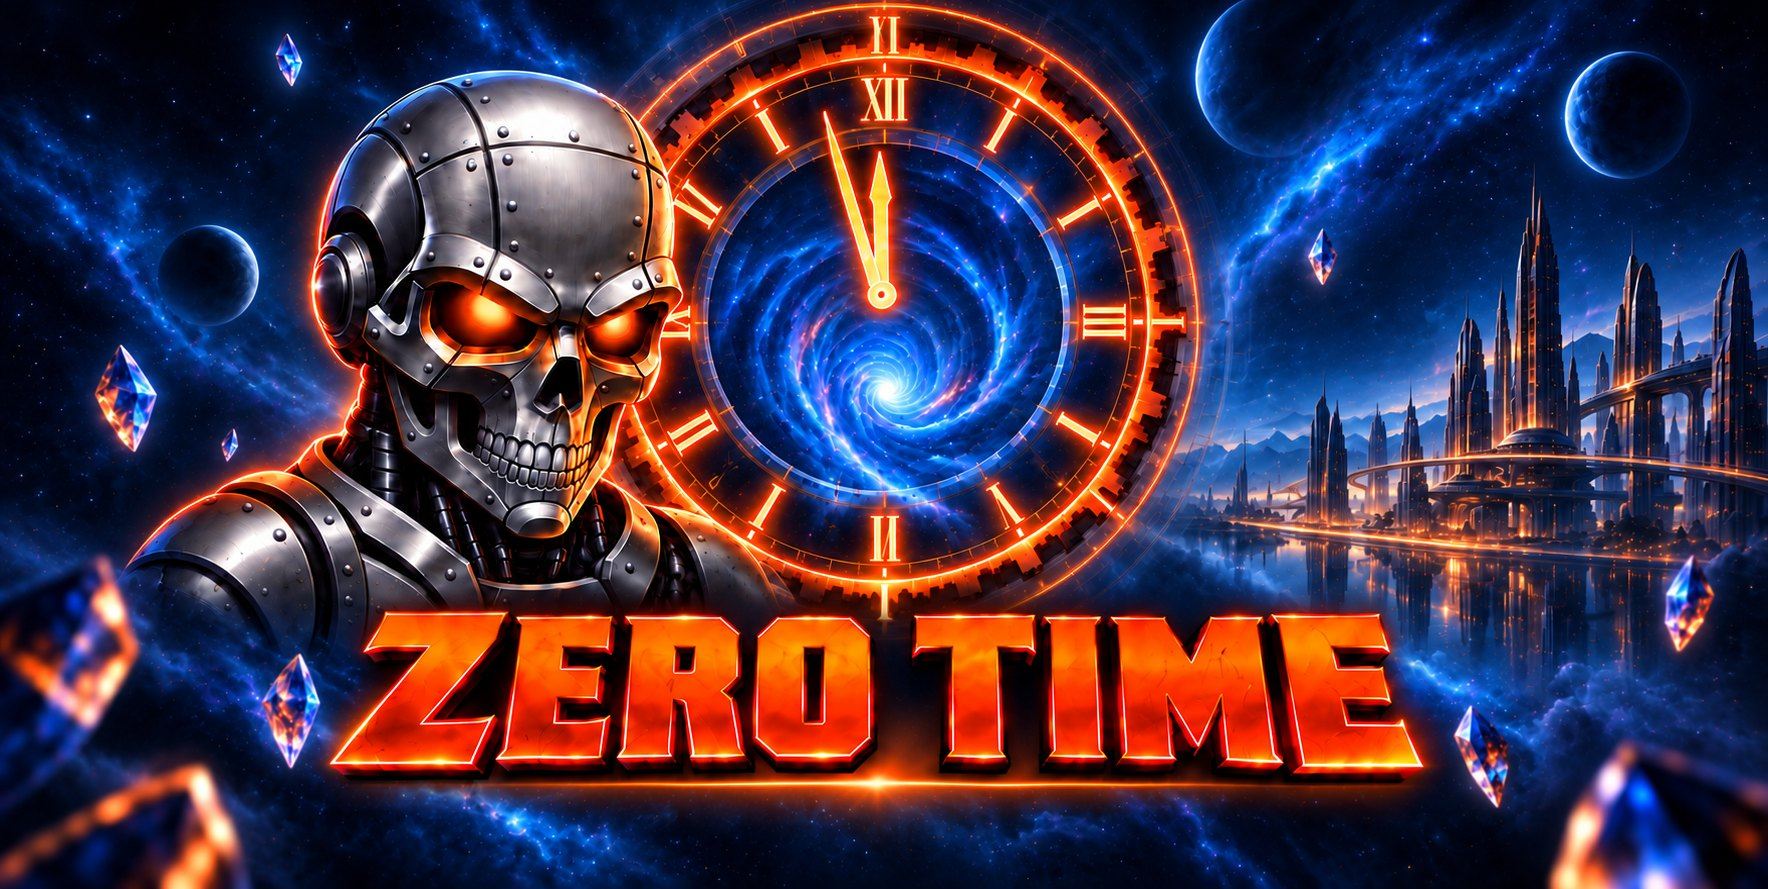
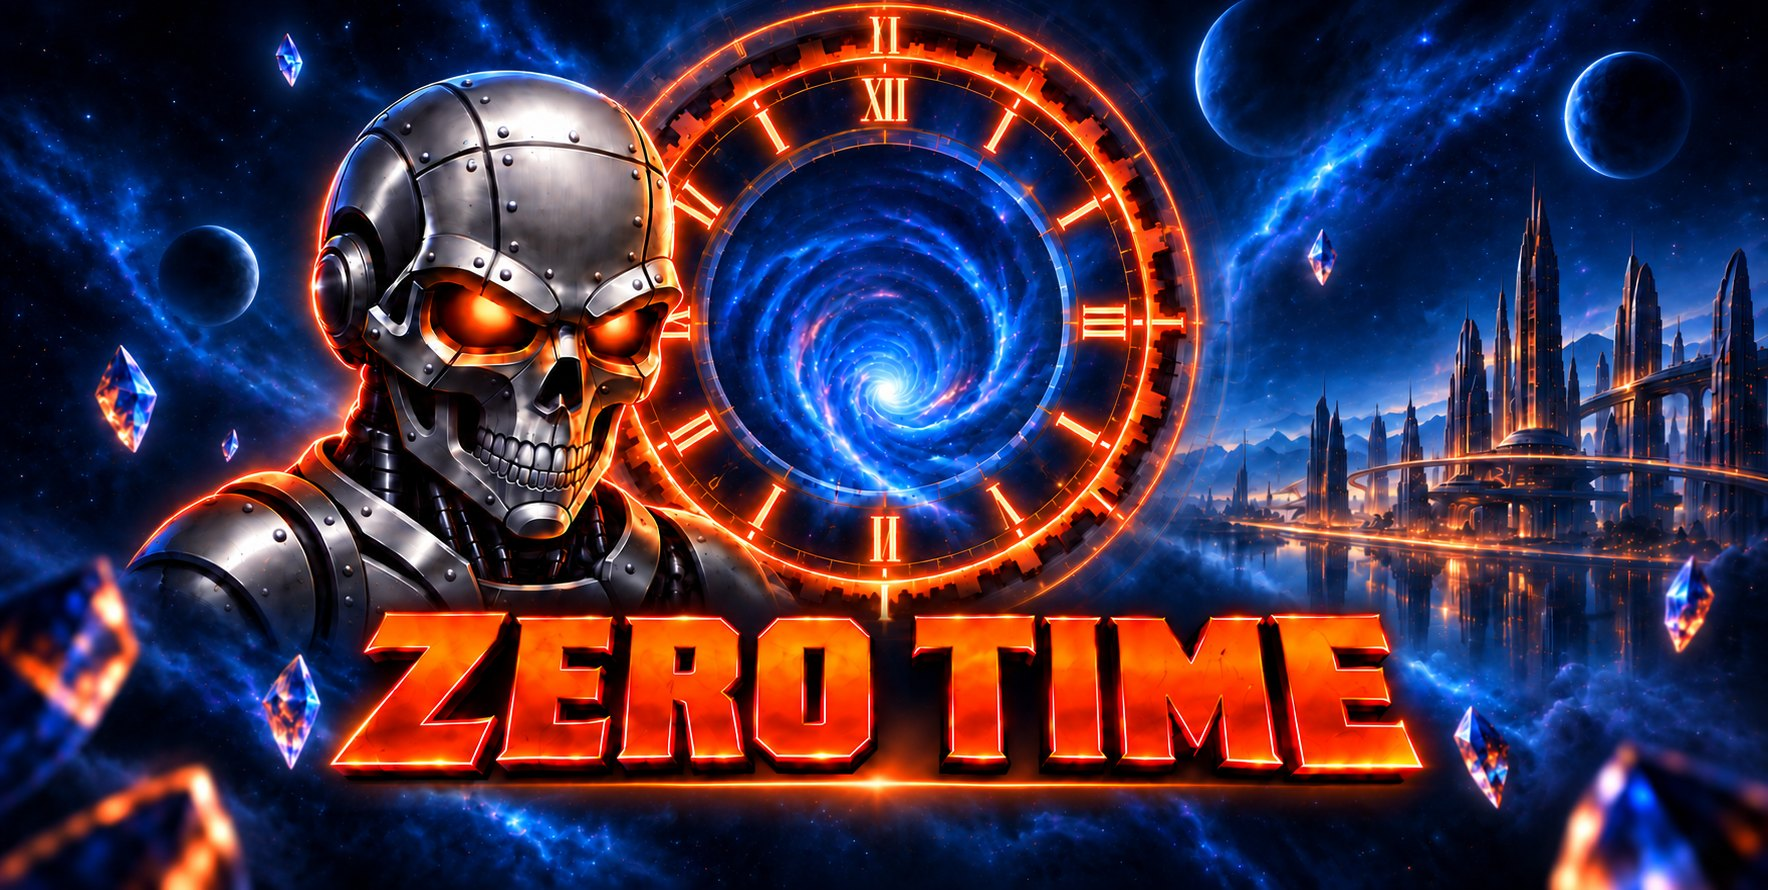
0.78: Uhr im Hinterglas mit beweglichen Zeigern, ZERO TIME bei 12 Uhr
Claude-Session: https://claude.ai/code/session_01YVTijdg2NrzQSAymz9VLAz

diff --git a/drei.js b/drei.js
@@ -444,6 +444,7 @@ const kopfBildTex = (() => {                  // Platzhalter: eigenes Motiv aus 
 })();
 const kopfBildMat = new THREE.MeshBasicMaterial({ map: kopfBildTex, toneMapped: false });
 const KOPF_MIN_BREITE = 0.6;
+let uhrLageRuf = () => {};                    // wird gesetzt, sobald die Uhr gebaut ist (Uhr steht weiter unten)
 const bildZuschnitt = () => {                 // 0.74: wie CSS „cover“ – Fläche immer gefüllt, Seitenverhältnis bleibt
   const t = kopfBildMat.map, img = t.image, bb = RK.b - 24, bh = Math.max(1, RK.hb - 14);
   const ib = img && img.width ? img.width / img.height : 4 / 3, fb = bb / bh;          // Seitenverhältnis Bild / Fläche
@@ -452,8 +453,69 @@ const bildZuschnitt = () => {                 // 0.74: wie CSS „cover“ – F
   if (ib > fb) { t.repeat.set(Math.max(fb / ib, KOPF_MIN_BREITE), 1); t.offset.set((1 - t.repeat.x) / 2, 0); }
   else { t.repeat.set(1, ib / fb); t.offset.set(0, (1 - t.repeat.y) * 0.35); }        // Bild höher: unten weniger abschneiden (Schriftzug)
   t.needsUpdate = true;
+  uhrLageRuf();
 };
-new THREE.TextureLoader().load('kopf.jpg', t => { t.colorSpace = THREE.SRGBColorSpace; t.anisotropy = 4; kopfBildMat.map = t; kopfBildMat.needsUpdate = true; bildZuschnitt(); }, undefined, () => {});
+new THREE.TextureLoader().load('kopf.jpg', t => { t.colorSpace = THREE.SRGBColorSpace; t.anisotropy = 4; kopfBildMat.map = t; kopfBildMat.needsUpdate = true; kopfEcht = true; bildZuschnitt(); }, undefined, () => {});
+// ---------- Uhr im Hinterglas (0.78): Zeiger und Augen als eigene Flächen über kopf.jpg (Bild ohne Zeiger) ----------
+// Maße in Pixeln des Bildes 1768×890 (tools/zeiger_einbau.py): Ringmitte, Länge Minuten-/Stundenzeiger, Nabe, Augen.
+const UHR = { iw: 1768, ih: 890, x: 886, y: 316, lm: 190, lh: 125, rn: 17, augen: [[485, 310, 46], [612, 305, 40]] };
+const uhr = new THREE.Group(); uhr.visible = false;
+let kopfEcht = false, bildMesh = null;
+const uhrTeil = (datei, seite, z) => {
+  const mat = new THREE.MeshBasicMaterial({ transparent: true, depthWrite: false, toneMapped: false });
+  const m = new THREE.Mesh(new THREE.PlaneGeometry(seite, seite), mat); m.position.z = z; m.visible = false; uhr.add(m);
+  new THREE.TextureLoader().load(datei, t => { t.colorSpace = THREE.SRGBColorSpace; mat.map = t; mat.needsUpdate = true; m.visible = true; });
+  return m;
+};
+const zStunde = uhrTeil('zeiger_h.png', 2 * UHR.lh / 0.967, 0.3);     // Spitze bei 0,967 bzw. 0,985 der halben Kante
+const zMinute = uhrTeil('zeiger_m.png', 2 * UHR.lm / 0.985, 0.5);
+uhrTeil('zeiger_n.png', 2 * UHR.rn * 90 / 78.5, 0.7);
+const glutTex = (() => {
+  const c = document.createElement('canvas'); c.width = c.height = 64; const g = c.getContext('2d');
+  const v = g.createRadialGradient(32, 32, 0, 32, 32, 32);
+  v.addColorStop(0, 'rgba(255,220,150,1)'); v.addColorStop(0.35, 'rgba(255,120,30,.6)'); v.addColorStop(1, 'rgba(255,60,0,0)');
+  g.fillStyle = v; g.fillRect(0, 0, 64, 64); return new THREE.CanvasTexture(c);
+})();
+const augenGlut = UHR.augen.map(([x, y, r]) => {
+  const m = new THREE.Mesh(new THREE.PlaneGeometry(2 * r, 2 * r), new THREE.MeshBasicMaterial({ map: glutTex, transparent: true, depthWrite: false,
+    blending: THREE.AdditiveBlending, toneMapped: false, opacity: 0.4 }));
+  m.position.set(x - UHR.x, -(y - UHR.y), 0.2); uhr.add(m); return m;
+});
+const uhrLage = () => {                       // Uhr auf die Stelle des Bildes setzen, die nach dem Zuschnitt sichtbar ist
+  const t = kopfBildMat.map, img = t.image;
+  if (!bildMesh || !kopfEcht || !img || !img.width) { uhr.visible = false; return; }
+  const bb = RK.b - 24, bh = Math.max(1, RK.hb - 14), sx = img.width / UHR.iw, sy = img.height / UHR.ih;
+  const u = UHR.x * sx / img.width, v = 1 - UHR.y * sy / img.height;
+  uhr.position.set(((u - t.offset.x) / t.repeat.x - 0.5) * bb, ((v - t.offset.y) / t.repeat.y - 0.5) * bh, 0);
+  uhr.scale.set(bb / (t.repeat.x * img.width) * sx, bh / (t.repeat.y * img.height) * sy, 1);   // Einheiten je Bildpixel
+  uhr.visible = true;
+};
+uhrLageRuf = uhrLage;
+let mWin = Math.PI, hWin = 0;
+const VOLL = 2 * Math.PI, nachVorn = (a, b) => ((b - a) % VOLL + 1.5 * VOLL) % VOLL - VOLL / 2;   // kürzeste Drehung a → b
+function uhrSchritt(dt) {
+  if (!uhr.visible) return;
+  const d = Z.uhr, zt = Z.zeit;
+  let m, h;
+  if (d.attract) {                            // Ruhezustand: echte Uhrzeit
+    const n = new Date(), min = n.getMinutes() + n.getSeconds() / 60;
+    m = min / 60 * VOLL; h = ((n.getHours() % 12) + min / 60) / 12 * VOLL;
+  } else {
+    // Fortschritt: jedes kassierte Fluchtweg-Feld = 5 Minuten, von halb zwölf (Minutenzeiger auf VI) bis ZERO TIME (12:00)
+    const fort = Math.PI + d.geholt * Math.PI / 6;
+    h = (11 + fort / VOLL) / 12 * VOLL; m = fort;
+    // Zeitmodi: Minutenzeiger als Stoppuhr, läuft in einer Runde auf zwölf zu
+    const uhrLauf = (rest, ges) => { m = VOLL * (1 - Math.max(0, Math.min(1, rest / ges))); };
+    if (Z.kanone.kugel) uhrLauf(Z.kanone.feuerBis - zt, 7);
+    else if (zt < d.hurryBis) uhrLauf(d.hurryBis - zt, 20);
+    else if (zt < d.paybackBis) uhrLauf(d.paybackBis - zt, 25);
+  }
+  if (zt - d.jpShow >= 0 && zt - d.jpShow < 1.2) { mWin += dt * 2 * VOLL; hWin += dt * VOLL / 6; }   // Jackpot: Zeiger wirbeln
+  else { const k = Math.min(1, dt * 5); mWin += nachVorn(mWin, m) * k; hWin += nachVorn(hWin, h) * k; }
+  zMinute.rotation.z = -mWin; zStunde.rotation.z = -hWin;
+  const glut = zt - d.jpShow >= 0 && zt - d.jpShow < 2.5 ? 0.95 : Z.multiball ? 0.6 + 0.3 * Math.sin(zt * 8) : 0.3 + 0.18 * Math.sin(zt * 2.2);
+  for (const a of augenGlut) a.material.opacity = glut;
+}
 const randMat = new THREE.MeshStandardMaterial({ color: 0xc8d2dc, metalness: 1, roughness: 0.25 });
 const kopf = new THREE.Group();
 kopf.position.copy(P(X0, -22, RK.sockel)); kopf.rotation.x = -RK.neig;     // steht auf der Rückwand
@@ -475,7 +537,7 @@ function setzeKopf(hb) {                      // oberer Teil mit Bild, Höhe hb 
   const H = RK.unten + hb, rand = (w, h, x, y) => { const m = new THREE.Mesh(new THREE.BoxGeometry(w, h, 5), randMat); m.position.set(x, y, 1.5); kopfOben.add(m); };
   if (hb > 20) {
     const k = new THREE.Mesh(new THREE.BoxGeometry(RK.b, hb, RK.t), holz); k.position.set(0, RK.unten + hb / 2, -RK.t / 2); k.castShadow = true; kopfOben.add(k);
-    const bild = new THREE.Mesh(new THREE.PlaneGeometry(RK.b - 24, hb - 14), kopfBildMat); bild.position.set(0, RK.unten + hb / 2, 1); kopfOben.add(bild);
+    const bild = new THREE.Mesh(new THREE.PlaneGeometry(RK.b - 24, hb - 14), kopfBildMat); bild.position.set(0, RK.unten + hb / 2, 1); kopfOben.add(bild); bildMesh = bild; bild.add(uhr);
     rand(RK.b, 4, 0, RK.unten); bildZuschnitt();
   }
   rand(RK.b + 4, 5, 0, H); rand(RK.b + 4, 5, 0, 0); rand(5, H, -RK.b / 2, H / 2); rand(5, H, RK.b / 2, H / 2);
@@ -578,8 +640,10 @@ function messeFps(jetzt) {
 // ---------- Schleife ----------
 const basis = { hemi: hemi.intensity, sonne: sonne.intensity, l: akzentL.intensity, r: akzentR.intensity };
 let letzteZeichnung = -1;
+let uhrZuletzt = 0, uhrDt = 0;
 function bild(jetzt) {
   messeFps(jetzt || performance.now());
+  { const j = (jetzt || performance.now()) / 1000; uhrDt = Math.min(0.1, Math.max(0, j - uhrZuletzt)); uhrZuletzt = j; }
   if (Z.gezeichnet !== letzteZeichnung) { letzteZeichnung = Z.gezeichnet; tex.needsUpdate = true; }
   if (window.__dmdStand !== dmdStand) { dmdStand = window.__dmdStand; dmdTex.needsUpdate = true; }
   const gi = Math.max(0.12, Math.min(1.4, Z.grundLicht()));
@@ -593,6 +657,7 @@ function bild(jetzt) {
   { const fl = Math.max(...Z.slings.map(x => x.flash)); schleuderMat.emissiveIntensity = 0.15 + 2.4 * fl; }
   for (const s3 of schleudern3d) if (s3.bogen) s3.bogen(3.5 * Math.max(0, Math.min(1, s3.sl.flash)));   // Gummi schnellt beim Schlag nach außen
   ziele3d();
+  uhrSchritt(uhrDt);
   kanone3d.dreh.rotation.y = -Z.kanone.a;
   kanone3d.lampeMat.emissiveIntensity = Z.kanone.kugel ? 1.6 : 0;
   kanone3d.kernMat.emissiveIntensity = Z.kanone.kugel ? 1.2 + 0.8 * Math.sin(Z.zeit * 9) : 0;

diff --git a/index.html b/index.html
@@ -158,7 +158,7 @@
 <div id="stage"><canvas id="c" aria-label="Flippertisch"></canvas></div>
 
 <script>
-const APP_VERSION = '0.77';          // bei JEDER Änderung hochzählen
+const APP_VERSION = '0.78';          // bei JEDER Änderung hochzählen
 </script>
 <script>
 // ---------- Ton (Web Audio, synthetisch, keine Dateien) ----------
@@ -838,7 +838,9 @@ const dmd = (() => {
       if (!multiball && !kanone.kugel) { gunLit = true; sdrop.unten = true; melde(t, 'KANONE LADEN', 2.2); }
       else { punkte(1000000, 10000); melde(t, fmt(1000000), 2); }
     } else if (k === 4) { extraBall = true; melde(t, 'BELEUCHTET', 2.4); }
-    else { punkte(10000000, 20000); melde(t, fmt(10000000), 2.8); blitzen(1); lampenBlitz(() => true, 1.5); sfx.multiball(); }
+    else {                                                     // 10 MILLION = Uhr steht auf zwölf: ZERO TIME (0.78, mit Jackpot-Lichtshow)
+      punkte(10000000, 20000); melde('ZERO TIME', fmt(10000000), 2.8); blitzen(1); lampenBlitz(() => true, 1.5); sfx.multiball(); jpShow = zeit;
+    }
     if (fluchtGeholt >= FLUCHT.length) { fluchtGeholt = 0; fluchtLit = 1; }   // alle sechs: von vorn
   }
   function schaedel() {
@@ -2043,7 +2045,8 @@ const dmd = (() => {
   if (DREI) {
     window.__ZT = { W, H, R, cv, walls, posts, bumpers, ramps, flippers, slings, tip, FL, bez, RAMP_T, kanone, drops, standups,
       get balls() { return balls; }, schleuderBildOk, grundLicht, SKULL, haelt, K_LAUF, rund, sdrop, MULDE, get gunLit() { return gunLit; },
-      get zeit() { return zeit; }, get gezeichnet() { return gezeichnet; } };
+      get zeit() { return zeit; }, get gezeichnet() { return gezeichnet; }, get multiball() { return multiball; },
+      get uhr() { return { geholt: fluchtGeholt, hurryBis, paybackBis, jpShow, attract: gameOver || (!gestartet && loaded) }; } };
     document.body.classList.add('drei');
     const s = document.createElement('script'); s.type = 'module'; s.src = 'drei.js?v=' + APP_VERSION;
     // Lädt die 3D-Ansicht nicht (Modul fehlt, WebGL-Fehler), auf die flache Ansicht ausweichen statt schwarzem Bild

diff --git a/sw.js b/sw.js
@@ -1,6 +1,6 @@
 // Eigene Dateien: Netz zuerst (Cache nur für offline). Fremde (Schriften): Cache zuerst.
 const CACHE = 'flipper';
-const ASSETS = ['./', './index.html', './manifest.webmanifest', './icon-192.png', './apple-touch-icon.png', './schaedel.png', './start.jpg', './schleuder.png', './flipper.png', './rampe.png', './kopf.jpg'];
+const ASSETS = ['./', './index.html', './manifest.webmanifest', './icon-192.png', './apple-touch-icon.png', './schaedel.png', './start.jpg', './schleuder.png', './flipper.png', './rampe.png', './kopf.jpg', './zeiger_h.png', './zeiger_m.png', './zeiger_n.png'];
 
 self.addEventListener('install', e => {
   e.waitUntil(caches.open(CACHE).then(c => c.addAll(ASSETS)));

diff --git a/tools/zeiger_einbau.py b/tools/zeiger_einbau.py
@@ -1,0 +1,36 @@
+#!/usr/bin/env python3
+"""Uhrzeiger fürs Hinterglas freistellen (braucht Pillow + NumPy).
+Aufruf: python3 tools/zeiger_einbau.py  → zeiger_h.png, zeiger_m.png, zeiger_n.png und kopf.jpg im Wurzelverzeichnis.
+
+Quelle bilder/eingang/zeiger_v1.png (schwarzer Grund): Stundenzeiger, Minutenzeiger, Nabe. Jede Datei ist ein Quadrat mit dem
+Drehpunkt genau in der Mitte, Zeiger nach oben (12 Uhr). Durchsichtigkeit nach Helligkeit. Gemessene Drehpunkte (Mitte der
+Scheibe, Quelle 1774×887): Stunde 473,5/733, Minute 889/757, Nabe 1306,5/747; Spitzen bei y 269 bzw. 16.
+kopf.jpg = bilder/eingang/kopf_ohne_zeiger_v1.png (1768×890), Uhrmitte dort ≈ 886/316 (Mitte des Ziffernkranzes)."""
+from PIL import Image
+import numpy as np
+
+src = Image.open('bilder/eingang/zeiger_v1.png').convert('RGB')
+TEILE = {                                        # Name: (Drehpunkt x, y, halbe Kantenlänge in Quellpixeln, Ausgabegröße)
+    'h': (473.5, 733, 480, 256),
+    'm': (889, 757, 752, 512),
+    'n': (1306.5, 747, 90, 128),
+}
+for name, (cx, cy, hk, aus) in TEILE.items():
+    box = (int(round(cx - hk)), int(round(cy - hk)), int(round(cx + hk)), int(round(cy + hk)))
+    teil = src.crop(box)                         # außerhalb des Bildes schwarz → durchsichtig
+    a = np.asarray(teil).astype(float)
+    hell = a.max(axis=2)
+    # nur das eigene Teil behalten (die Quadrate überlappen die Nachbarzeiger): Spaltenfenster um den Zeiger, Nabe als Kreis
+    xs = np.arange(a.shape[1]) + box[0]
+    ys = np.arange(a.shape[0])[:, None] + box[1]
+    if name == 'n': eigen = (xs[None, :] - cx) ** 2 + (ys - cy) ** 2 <= 86 ** 2
+    else: eigen = np.broadcast_to(np.abs(xs - cx)[None, :] <= 90, hell.shape)
+    hell = np.where(eigen, hell, 0)
+    alpha = np.clip((hell - 18) / 70, 0, 1)
+    farbe = np.clip(a / np.maximum(alpha[..., None], 1e-3), 0, 255) * (alpha[..., None] > 0)   # Grundfarbe ohne Schwarzanteil
+    rgba = np.dstack([farbe, alpha * 255]).astype(np.uint8)
+    Image.fromarray(rgba, 'RGBA').resize((aus, aus), Image.LANCZOS).save(f'zeiger_{name}.png', optimize=True)
+    print(f'zeiger_{name}.png', aus, 'Spitze bei', round((cy - (269 if name == "h" else 16)) / hk, 3) if name != 'n' else '-', 'der halben Kante')
+
+Image.open('bilder/eingang/kopf_ohne_zeiger_v1.png').convert('RGB').save('kopf.jpg', quality=86, optimize=True, progressive=True)
+print('kopf.jpg')

diff --git a/CLAUDE.md b/CLAUDE.md
@@ -363,6 +363,14 @@ Logos, Bilder oder Filmzitate (Seite ist öffentlich). Festgelegt:
 - Stand 0.77 (Nutzer: „ZERO TIME“ nicht doppelt): Punktmatrix vor dem Abschuss zeigt **keinen Namen mehr** – vor Kugel 1 den **Rekord**
   (`flipper.rekord` in localStorage, gesetzt bei Game over) im Wechsel „REKORD“ / „KUGEL HALTEN“, sonst den Punktestand (bzw. „KUGEL n“).
   iPhone-Screenshot 0.76 bestätigt: Fix aus 0.72 wirkt (Tisch bis über die Home-Leiste, Bildfläche ≈ 1,47 : 1).
+- Stand 0.78 – **Uhr im Hinterglas** (Nutzeridee: Bild ohne Zeiger + Zeiger separat). `kopf.jpg` = Bild ohne Zeiger (1768×890), Zeiger per
+  `tools/zeiger_einbau.py` aus `bilder/eingang/zeiger_v1.png` freigestellt → `zeiger_h/m/n.png` (Quadrat, Drehpunkt mittig, je Teil maskiert).
+  In `drei.js` als Flächen über dem Bild (`uhr`-Gruppe an der Bildfläche, `uhrLage()` rechnet Bildpixel → Fläche über den Zuschnitt), Ringmitte
+  886/316 (Ziffernkranz; die Nabe im alten Bild saß mit 881/294 schief), Minutenzeiger 190, Stunde 125 Bildpixel. **Bedeutung:** Ruhezustand
+  (Start/Game over/vor dem Abschuss) = echte Uhrzeit; im Spiel **Fortschritt** = 11:30 + 5 min je kassiertem Fluchtweg-Feld, das 6. Feld
+  (10 MILLION) = 12:00 → Meldung **„ZERO TIME“** + Jackpot-Lichtshow (`jpShow`); bei Kanone (7 s), Hurry Up (20 s), Payback (25 s) läuft der
+  Minutenzeiger als Stoppuhr eine Runde auf zwölf zu; bei jedem Jackpot wirbeln die Zeiger 1,2 s. **Schädel-Augen** im Bild glühen
+  (additive Flächen, pulsierend, stärker im Multiball/Jackpot). `__ZT` liefert dafür `uhr` und `multiball`. Zeiger in der `sw.js`-Cache-Liste.
 - Physik-Test: `node tools/sim.js [minuten]` (Node-Simulation mit `window.__TEST__`): Abschuss-Pfad, jedes der 5
   Rundziele per Kanone treffbar (Winkel-Scan), Multiball per Treffer, dann Autoplay (Standard 10 min): Kugel
   verlässt nie den Tisch, bleibt nie hängen. Seit 0.18 auch Schädel-Klappziel → LOAD GUN → Laden, Targetlicht
